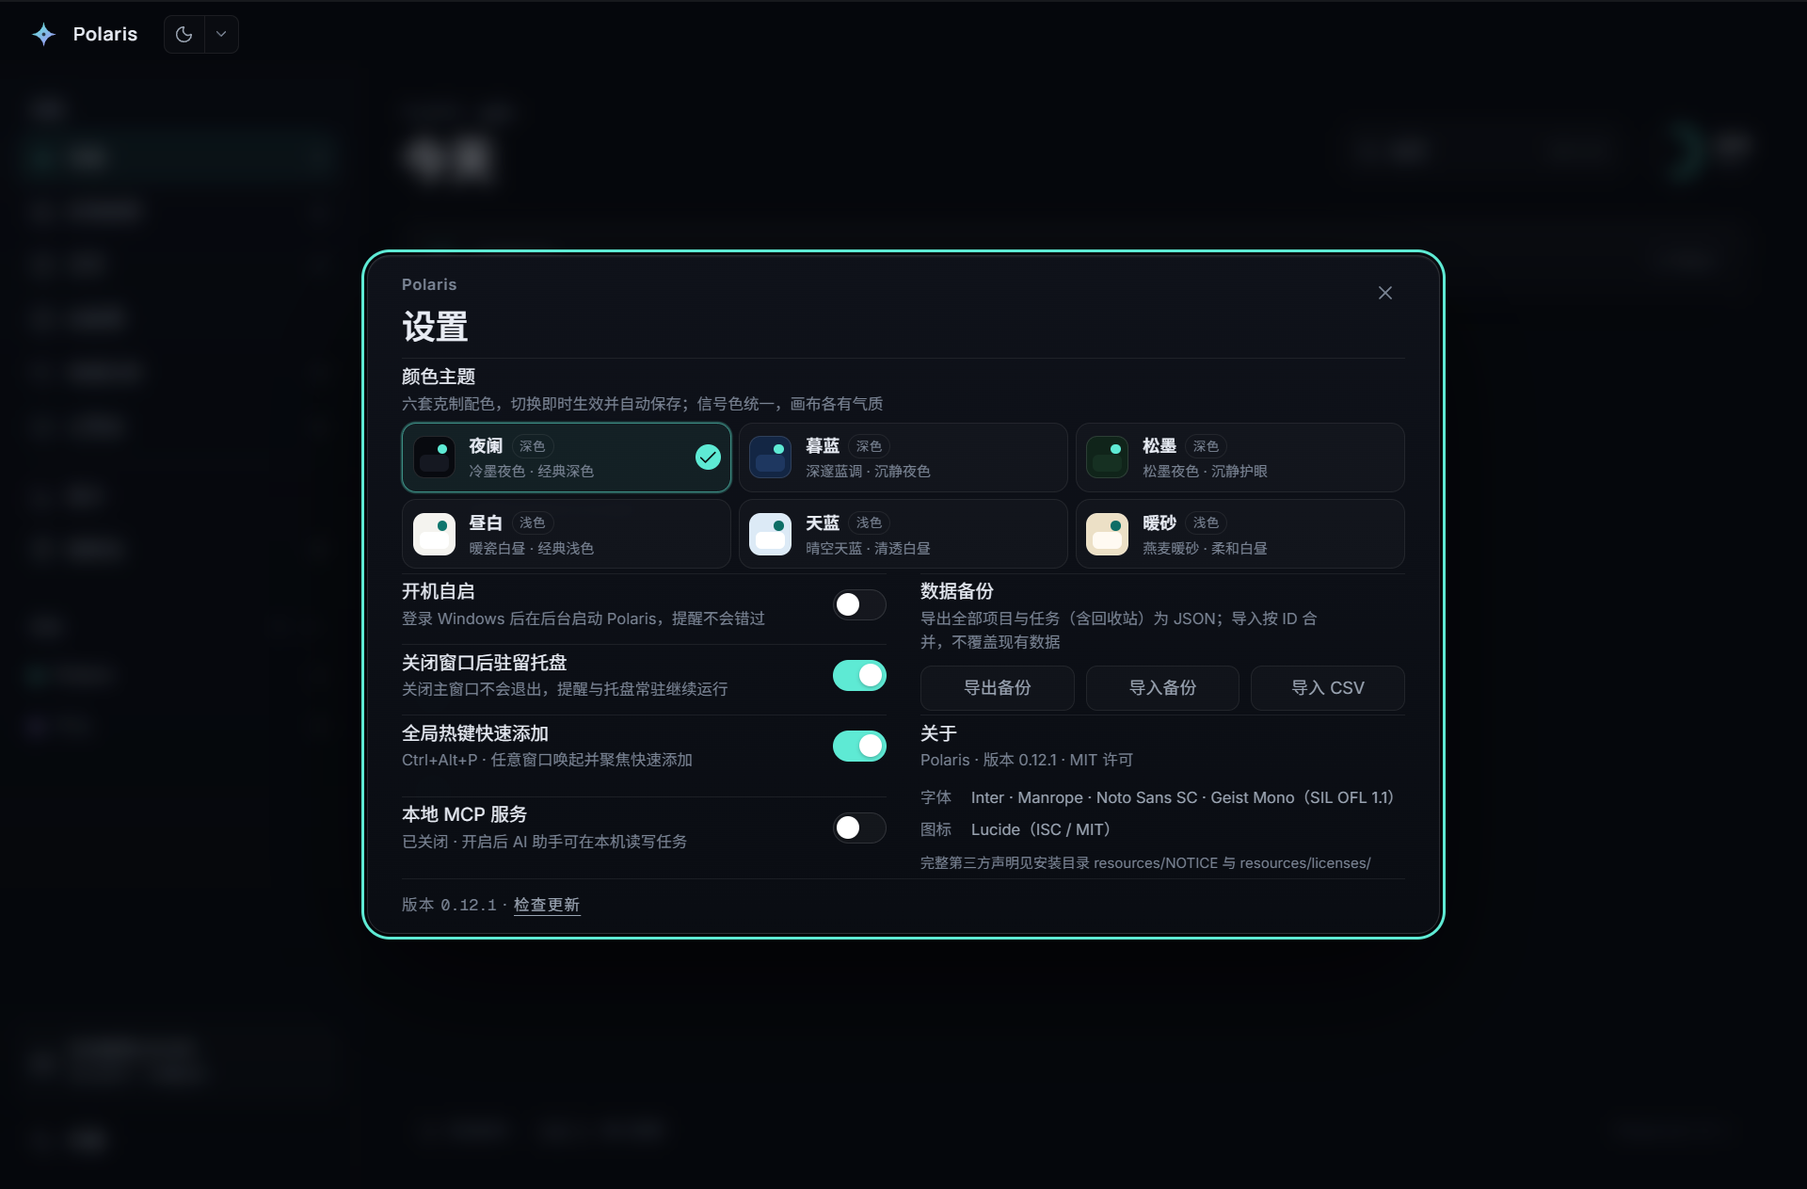
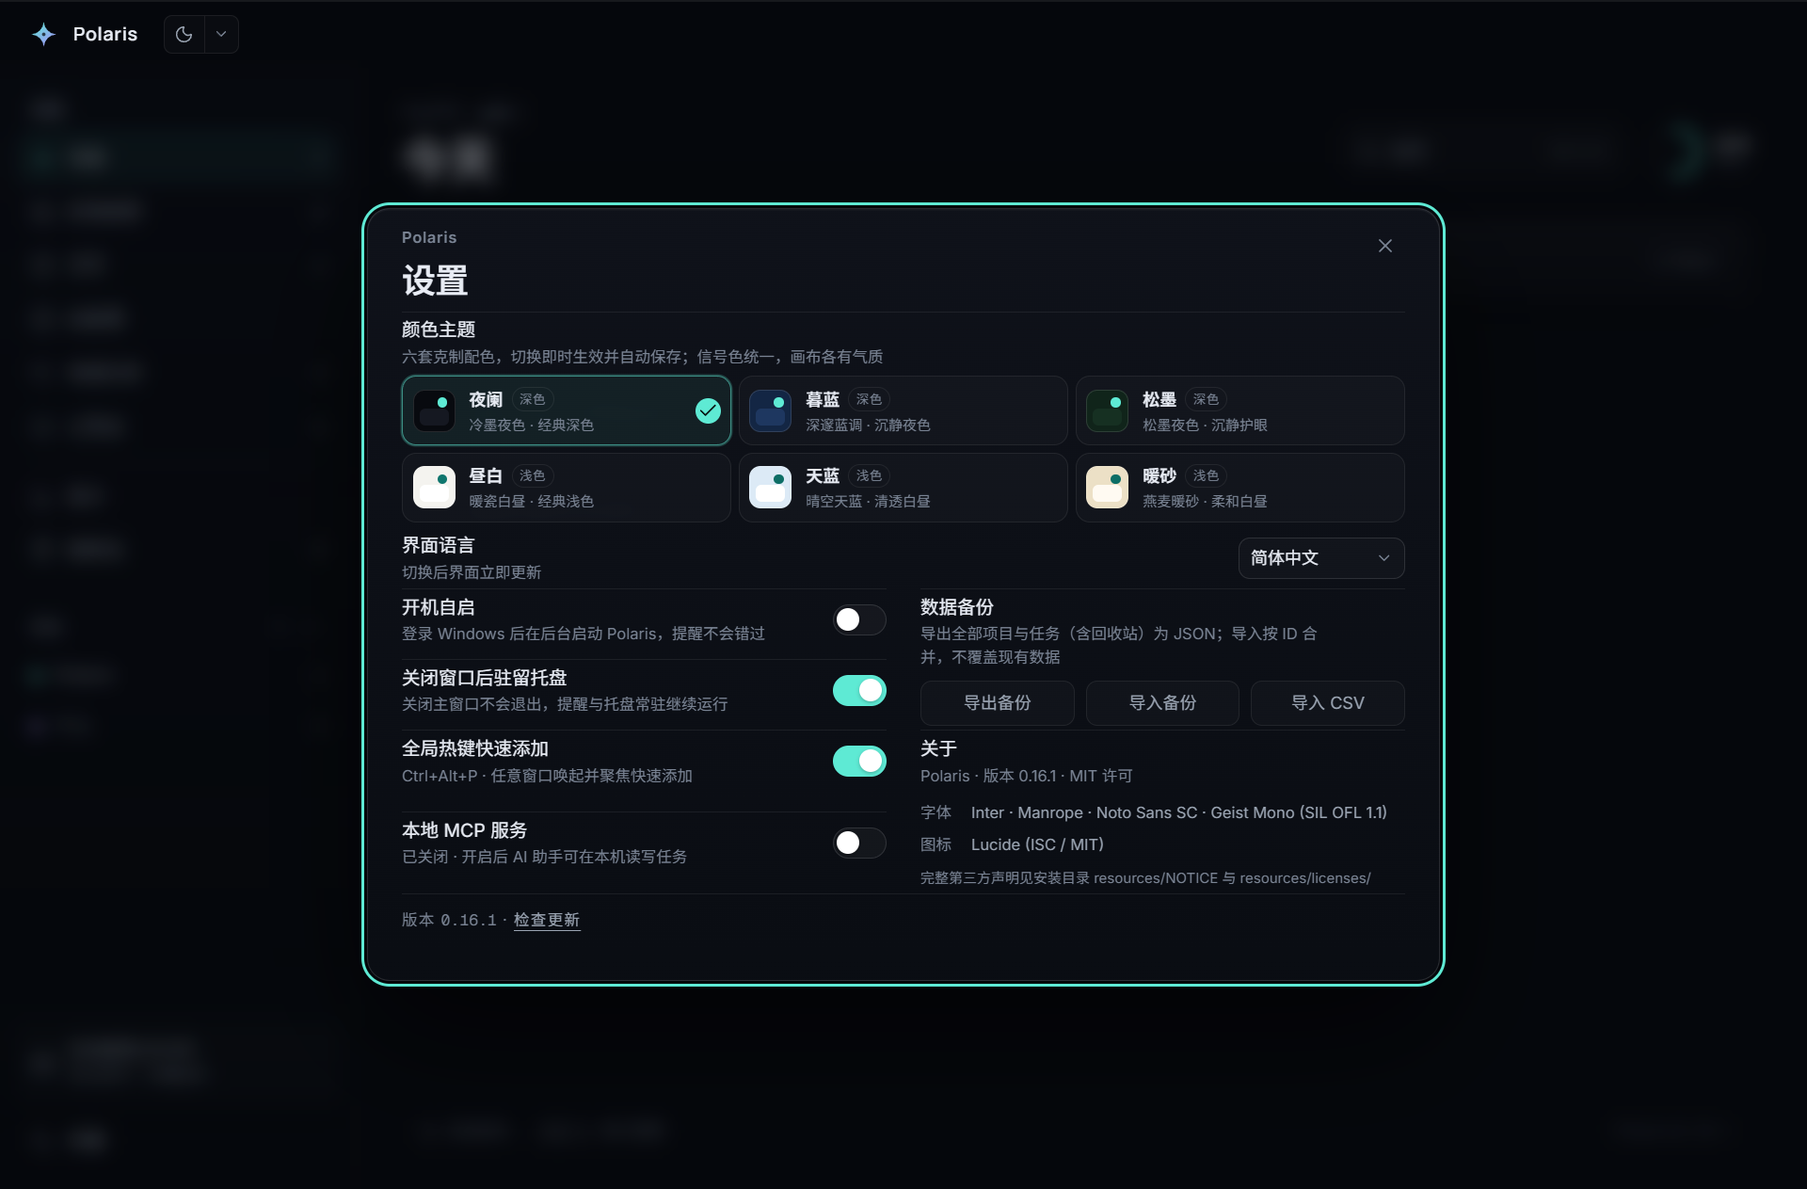
README 同步 0.16.1 现状与本轮令牌/抖动改动
- 版本徽章 0.14.1 → 0.16.1；打包产物改 <版本> 占位不再钉死旧号
- 功能补遗：自动备份与灾难恢复（0.15.0）、日历键盘导航（0.16.0）、设置面板高度不随状态跳变、旧无前缀 token 兼容说明
- 技术栈表补 electron-log 行；其余版本逐一对过 package.json
- 测试节断言数 140 余 → 156；明细补零抖动守卫、sk- token 形状、已完成折叠/大列表窗口化/focus 门控/子任务字段回滚/统计与项目五组
- 开发流程：截图需 POLARIS_HARNESS=1 重建（生产构建剥离截图代码，本次实踩）；发版步骤补先 push tag 与 DRAFT 转正
- 已知限制补自动备份仅启动触发；设置面板截图重截归档（含语言行与当前布局）

diff --git a/README.md b/README.md
@@ -8,7 +8,7 @@
 
 深色墨黑界面 · 青绿信号色 · 原生窗口控件 · 数据默认只保存在本机
 
-[![版本](https://img.shields.io/badge/version-0.14.1-0F766E?style=flat-square)](https://github.com/2dapeng518/Polaris-Todo/releases/latest)
+[![版本](https://img.shields.io/badge/version-0.16.1-0F766E?style=flat-square)](https://github.com/2dapeng518/Polaris-Todo/releases/latest)
 [![平台](https://img.shields.io/badge/platform-Windows%2011-334155?style=flat-square)](#安装)
 [![许可证](https://img.shields.io/badge/license-MIT-0F766E?style=flat-square)](LICENSE)
 [![下载](https://img.shields.io/github/downloads/2dapeng518/Polaris-Todo/total?style=flat-square&color=0F766E&label=downloads)](https://github.com/2dapeng518/Polaris-Todo/releases)
@@ -39,7 +39,7 @@ Polaris 面向 Windows 11 桌面，用 Electron 构建，数据落在本机 SQLi
 - **八个视图**：今天 / 即将到来 / 日历 / 四象限 / 全部任务 / 已完成 / 统计 / 回收站。侧栏按工作流分组——干活视图在上，统计与回收站用分隔线归入回顾区；支持项目与标签筛选、今日完成进度环。列表里的已完成区默认折叠成「已完成 N 条」一行，点击展开或收起，勾选完成只加计数不打扰当前列表；切换视图后回到折叠。
 - **统计回顾**：今日完成、本周完成（周一起算）、累计完成与按时完成率，7 天 / 30 天完成趋势柱状图、各项目累计完成占比。全部数字在本地从任务列表派生，不额外存库；没有记录完成时刻的老任务计入累计与项目分布，但不计入趋势和按时率，界面会注明数量。
 - **四象限**：按「重要 = 中/高优先级、紧急 = 今天到期或已逾期」把未完成任务派生进立即做 / 计划做 / 快速处理 / 有余力再做，2×2 卡片窄屏自动堆叠；无截止视为不紧急，跨午夜自动重新判定。
-- **日历**：月历按截止时间把任务落到对应日子，周一起始、恒定 42 格翻月不跳高；每天最多直显三条，溢出收敛为 +N，逾期标警示色、已完成弱化划线，中高优先级带信号色圆点。点任务开详情，「今天」一键回本月。
+- **日历**：月历按截止时间把任务落到对应日子，周一起始、恒定 42 格翻月不跳高；每天最多直显三条，溢出收敛为 +N，逾期标警示色、已完成弱化划线，中高优先级带信号色圆点。点任务开详情，「今天」一键回本月。月格完整键盘导航：方向键按日/周移动、Home/End 取本周首尾、PageUp/Down 翻月、Shift 组合翻年、Enter 打开当日首条任务。
 - **项目与标签**：侧栏新建项目，内置六种配色；标签在详情里回车即创建并贴上，建议 chip 一键复用，侧栏按标签筛选（与项目筛选互斥），删除标签级联清理关联。
 
 ### 任务编辑
@@ -56,8 +56,9 @@ Polaris 面向 Windows 11 桌面，用 Electron 构建，数据落在本机 SQLi
 
 - **本地 SQLite**：数据位于 Electron `userData/polaris.db`，WAL 模式，自动保存。侧栏「任务数据仅存本机 · 自动保存 · 点击备份」卡片直达设置备份区——隐私承诺同时是一个出口：随时导出。
 - **JSON 备份**：设置里一键导出 / 导入全量备份（`schemaVersion: 3`，含子任务与标签关联）；v1 / v2 旧备份仍能导入，只是缺少对应数据。
+- **自动备份与灾难恢复**：启动时自动往 `userData/backups/` 写一份 JSON 备份（最新一份不足 24 小时则跳过，原子写，保留最近 7 份）；数据库文件损坏时改名隔离保留（含 WAL 旁车，绝不覆盖删除），重建新库并双语告知，不会静默丢数据死掉。
 - **CSV 搬家**：支持滴答清单 / Todoist 的 CSV 导出，按表头自动识别格式。迁移标题、备注、优先级、截止时间、项目（按名复用或新建）、标签与 Todoist 缩进子任务；已完成任务按完成态导入但不伪造完成时刻。重复规则、提醒、附件与评论不迁移。
-- **本地 MCP 服务**：设置里可开启（默认关），在 `http://127.0.0.1:3737/mcp` 提供 MCP Streamable HTTP 端点，AI 助手可直接列出 / 新建 / 更新 / 完成 / 删除任务、查项目与标签。八个工具直调与界面完全相同的落库逻辑，零逻辑复制。客户端必须携带 `Authorization: Bearer <token>` 请求头——token 首次启用时自动生成（`sk-` 前缀），在 设置 → 本地 MCP 服务 里以头尾可见、中段隐藏的单行掩码展示，只能整串复制（明文不上屏），重启不变；「重新生成」会立即作废旧 token。
+- **本地 MCP 服务**：设置里可开启（默认关），在 `http://127.0.0.1:3737/mcp` 提供 MCP Streamable HTTP 端点，AI 助手可直接列出 / 新建 / 更新 / 完成 / 删除任务、查项目与标签。八个工具直调与界面完全相同的落库逻辑，零逻辑复制。客户端必须携带 `Authorization: Bearer <token>` 请求头——token 首次启用时自动生成（`sk-` 前缀），在 设置 → 本地 MCP 服务 里以头尾可见、中段隐藏的单行掩码展示，只能整串复制（明文不上屏），重启不变；「重新生成」会立即作废旧 token。0.16.1 及以前的无前缀旧 token 升级后继续被接受，已配置的客户端不用重配；只有新生成 / 重新生成的 token 带前缀。
 
 > [!IMPORTANT]
 > MCP 只绑本机回环地址，并要求 bearer token 鉴权：缺失或错误的 token 一律 401，本机其他进程拿不到 token 就读写不了任务。token 仅存本机数据库，数据不出本机，服务随应用运行、退出即停。
@@ -74,7 +75,7 @@ Polaris 面向 Windows 11 桌面，用 Electron 构建，数据落在本机 SQLi
 - **小屏适配**：窗口默认与最小尺寸贴合屏幕工作区，分辨率变化时自动重收；1024×576 级别小屏走紧凑布局，侧栏导航独立滚动，存储卡与设置钉底不丢。
 - **界面语言**：设置「颜色主题」区可在简体中文 / English 之间切换，界面文字、日期格式与托盘菜单立即更新并记住选择；系统通知与原生文件对话框同步使用当前语言。
 - **键盘优先与无障碍**：命令面板（`Ctrl K`）、设置和窄屏详情有焦点陷阱，宽屏详情保持列表可操作；支持 skip link、reduced motion；全应用十处输入框统一柔和聚焦语言（淡边 + 浅光晕），焦点环绝不与填充同色。
-- **设置一屏收纳**：设置面板在默认窗口一屏放下，矮窗口自动两列回流；自定义标题栏保留 Windows 原生最小化 / 最大化 / 关闭按钮。
+- **设置一屏收纳**：设置面板在默认窗口一屏放下，矮窗口自动两列回流；面板高度不随状态跳变——更新状态行常驻占位、令牌行单行掩码，检查结果落槽不抖动；自定义标题栏保留 Windows 原生最小化 / 最大化 / 关闭按钮。
 - **关于与署名**：设置「关于」区显示当前版本与 MIT 许可；完整第三方组件与字体声明随安装包放在 `resources/NOTICE` 与 `resources/licenses/`。
 
 ## 界面预览
@@ -230,6 +231,7 @@ Polaris 面向 Windows 11 桌面，用 Electron 构建，数据落在本机 SQLi
 | 界面 | React / Tailwind CSS / Motion / Zustand | 19.3 / 4.3 / 14.12 / 5.1 |
 | 数据 | better-sqlite3 / rrule / zod | 13.0 / 2.8 / 4.6 |
 | 更新 | electron-updater / DOMPurify | 6.8 / 3.4 |
+| 日志 | electron-log | 5.4 |
 | 打包 | electron-builder（NSIS） | 26.18 |
 | 图标与日期 | lucide-react / date-fns | 1.72 / 4.4 |
 
@@ -321,8 +323,8 @@ build/         应用图标与安装包资源
 1. 改代码，用 `npm run dev` 验证交互。
 2. 运行 `npm run typecheck`。
 3. 运行 `npm run build && npm run smoke`；动过主题加跑 `npm run verify:themes`，动过 `lib/dateTime.ts` 加跑 `npm run verify:datetime`，动过 `shared/quickAddParse.ts` / `shared/retention.ts` 先跑秒级的 `npm run verify:pure` 快速反馈。
-4. 需要看视觉结果时，构建后用 `POLARIS_SHOT=<mode> npx electron .` 截图到仓库根目录（模式清单见下方折叠块）；验证时请加 `--user-data-dir` 隔离，避免改写真实配置目录的主题。
-5. 发布：递增 `package.json` 版本 → 打 git tag → 设好 `GH_TOKEN` 跑 `npm run release:win`。发完核对 Release 资产三件套齐全：`Polaris-Setup-<版本>.exe`、`.blockmap`、`latest.yml`（electron-builder 上传偶有静默漏传，缺啥用 `gh release upload --clobber` 补）。
+4. 需要看视觉结果时，先 `POLARIS_HARNESS=1 npm run build` 带 harness 重建（生产构建会剥离截图代码，直接截会静默无产出），再 `POLARIS_SHOT=<mode> npx electron .` 截图到仓库根目录（模式清单见下方折叠块）；截完跑一次 `npm run build` 恢复生产态；验证时请加 `--user-data-dir` 隔离，避免改写真实配置目录的主题。
+5. 发布：递增 `package.json` 版本 → 提交并打附注 tag → **先 push main 与 tag**（否则 electron-builder 可能抢先把 tag 建在旧 HEAD 上）→ 设好 `GH_TOKEN` 跑 `npm run release:win`。发完核对 Release 资产三件套齐全：`Polaris-Setup-<版本>.exe`、`.blockmap`、`latest.yml`（electron-builder 上传偶有静默漏传，缺啥用 `gh release upload --clobber` 补）；Release 若停在 DRAFT 用 `gh release edit --draft=false` 转正。
 
 <details>
 <summary><b>POLARIS_SHOT 截图模式清单</b></summary>
@@ -333,8 +335,8 @@ build/         应用图标与安装包资源
 
 打包产物：
 
-- `dist/Polaris-Setup-0.14.1.exe`：NSIS 一键安装包，装进当前用户目录，无需管理员权限，装完自动启动。
-- `dist/Polaris-Setup-0.14.1.exe.blockmap` 与 `dist/latest.yml`：在线更新的差量下载与版本元数据，发布时随安装包一起上传。
+- `dist/Polaris-Setup-<版本>.exe`：NSIS 一键安装包，装进当前用户目录，无需管理员权限，装完自动启动。
+- `dist/Polaris-Setup-<版本>.exe.blockmap` 与 `dist/latest.yml`：在线更新的差量下载与版本元数据，发布时随安装包一起上传。
 - `dist/win-unpacked/Polaris.exe`：免安装目录版。
 - 另提供 `npm run build:mac`（macOS 打包配置，图标 `build/icon.icns`）；主要目标平台仍是 Windows 11。
 
@@ -350,12 +352,12 @@ npm run verify:datetime
 npm run verify:pure
 ```
 
-- **冒烟测试**（`scripts/smoke.mjs`）启动真实 Electron，通过 `webContents.executeJavaScript` 驱动界面，140 余条具名断言覆盖从快速添加到在线更新的全链路；使用临时 userData 配置目录，不碰本机数据，失败时以非零退出码结束并单独打印 `POLARIS_SMOKE_FAILED ["断言名", …]`。
+- **冒烟测试**（`scripts/smoke.mjs`）启动真实 Electron，通过 `webContents.executeJavaScript` 驱动界面，156 条具名断言覆盖从快速添加到在线更新的全链路；使用临时 userData 配置目录，不碰本机数据，失败时以非零退出码结束并单独打印 `POLARIS_SMOKE_FAILED ["断言名", …]`。
 - **主题校验**检查六套主题的 WCAG 对比度、注册表不变量与跨家族配对。
 - **日期时间校验**直接 import 渲染层纯函数并注入时钟，用字面量期望表加全天 5760 个真实时刻扫描，再覆盖 7 个时区 2026 年的每一次夏令时跳变（共 17280 个真实时刻），钉死「今天」按钮不落过去这类靠跑 UI 撞概率的边界。
 - **纯函数快速校验**（`npm run verify:pure`，CI 已挂）不启动 Electron，直接在 Node 里 import `shared/quickAddParse.ts` 与 `shared/retention.ts`，秒级跑完与冒烟 harness 同源的中文/英文解析真值表、误报反例、撤销状态机与保留期边界表；两处断言表需同步维护（`src/main/harness/assertions.ts` 的原断言保留，E2E 仍跑）。
 
-期望值全部写成字面量，不经过被测函数自算；跨进程等待一律走条件轮询而非固定延时。高度断言用亚像素矩形，smoke 以 CDP 仿真 125/150/200% 显示缩放与 1024×536 低分辨率视口；段宽、分隔线、小字号中文等细节仍靠手动。视觉检查通过 `POLARIS_SHOT` 截图完成，截图和冒烟测试需在本地运行。
+期望值全部写成字面量，不经过被测函数自算；跨进程等待一律走条件轮询而非固定延时。高度断言用亚像素矩形，smoke 以 CDP 仿真 125/150/200% 显示缩放与 1024×536 低分辨率视口；段宽、分隔线、小字号中文等细节仍靠手动。视觉检查通过 `POLARIS_SHOT` 截图完成（需先带 harness 重建，见开发流程第 4 步），截图和冒烟测试需在本地运行。
 
 <details>
 <summary><b>断言覆盖明细</b></summary>
@@ -372,17 +374,23 @@ npm run verify:pure
 
 **日历**：命令面板直达、42 格、任务按截止落格、无截止不进日历、翻月标签与格数、今天按钮回本月、chip 点开详情。
 
-**本地 MCP**：真实 HTTP 往返（经 IPC 取 bearer token）——initialize / tools/list / 建任务 / 列任务 / 完成任务 / GET 回 405 / 无 token 与错 token 401 / 重新生成后旧 token 401、新 token 200 / 关闭后拒连。
+**本地 MCP**：真实 HTTP 往返（经 IPC 取 bearer token）——initialize / tools/list / 建任务 / 列任务 / 完成任务 / GET 回 405 / 无 token 与错 token 401 / 重新生成后旧 token 401、新 token 200 / 关闭后拒连；token 形状钉死 `sk-` 前缀 + 64 位 hex、重复读取同值。
 
 **在线更新**：纯函数真值表、开发态手动检查答 unsupported 且不弹窗、合成快照驱动发现→进度→就绪→稍后不再弹→跳过后再推保持安静、跳过持久化与页脚重开、HTML 更新说明富文本渲染（注入 `<script>` 被消毒不执行）、开发态安装守卫报错不杀进程。
 
 **托盘与热键**：构建后菜单标签恰为四项、托盘「设置」唤起并开面板、手动检查七态气泡文案真值表、开发态检查不弹窗不唤窗；热键默认开启、设置往返、冲突降级中文提示、隐藏窗口唤起回「今天」并聚焦输入。
 
-**布局与聚焦**：设置面板一屏守卫（默认 840 与紧凑两档，点过检查更新带状态行再量）、低分辨率 1024×536 紧凑档生效且侧栏/主区不溢出、存储卡直达备份区；焦点环扫描覆盖主视图、详情栏、日期弹层、主题菜单展开、回收站确认弹窗五种状态，任何环与自身填充/边框同色即失败。
+**布局与聚焦**：设置面板一屏守卫（默认 840 与紧凑两档，点过检查更新带状态行再量）、低分辨率 1024×536 紧凑档生效且侧栏/主区不溢出、存储卡直达备份区；设置零抖动守卫在实机 1024×576 档量令牌行单行掩码形状（头 7 + … + 末 4）、高度恒一行、按钮恰为复制与重新生成、明文永不上屏，以及检查更新结果落槽前后面板内容高度与页脚顶边零位移；焦点环扫描覆盖主视图、详情栏、日期弹层、主题菜单展开、回收站确认弹窗五种状态，任何环与自身填充/边框同色即失败。
 
 **主题**：配对快切连点两次回到原主题（三对逐一校验）、六套主题矩阵的 `data-theme` / 持久化 / 令牌生效、标题栏主题菜单（六行齐全且顺序固定、打开即聚焦当前行、点选落库、菜单卸载后 `aria-expanded` 归位、焦点回到箭头、Esc 只收菜单），以及命令面板输入「主题」命中六条直达并选中生效。
 
 **数据层**：同一截止时刻按优先级高→低排序、更早的时刻不被优先级打乱；`completedAt` 新建为空、完成时写入、后续编辑标题不改动它（`updated_at` 会变）、取消完成清空、再次完成写入新时刻；重复任务完成实例保留时刻而生成的下一次为空。
+
+**已完成折叠与列表规模化**：已完成区默认折叠成「已完成 N 条」一行（N=0 整区隐藏）、勾选只加计数不自动展开、展开可见 / 收起卸载 / 切视图重置；1200 条种子任务的大列表窗口化渲染（`content-visibility`）、常规与紧凑两档行高字面量、滚动锚点稳定、底行可交互、屏外行勾选与退场动画收敛。
+
+**增量刷新与字段级回滚**：focus 修订号门控——迁移 7 的触发器写修订号，focus 时号不变不拉全量（主进程计数 `tasks:list` 调用作判别器）、外部写入后 focus 必拉、自己写完盖章后 focus 安静；子任务并发竞态下改名失败只回滚改名字段，不抹并发成功的勾选。
+
+**统计与项目**：统计视图直达、今日 / 本周 / 累计 / 按时率与种子数据字面量自洽、7 / 30 天趋势往返切换；项目 UI 改名后任务仍映射、UI 删除（确认弹窗）后任务归「无项目」（外键 SET NULL）。
 
 **日期时间选择器与提醒窗**：弹层内不存在原生 `datetime-local`、月历恒 42 格且只有一个 Tab 位、五种弹层形态都不超过 420px 且零滚动、选日保留时分且秒/毫秒归零、`aria-valuenow` 与落库时刻恒等、上下键回绕、「1830」打字流、±15 跨小时进位与键盘等价、半截数字不会写错值、「今天」不落过去、Esc 只收弹层、清除生效。提醒窗用 `capturePage` 采样真实绘制像素验证单一不透明表面、铺满窗口、无内衬无圆角无描边、长项目名下标题不被压扁，并在提醒窗开着时切换主题验证跨窗同步。首帧颜色断言只等「就绪」不等「颜色正确」，否则先画错再改正也会通过。
 
@@ -441,6 +449,7 @@ npm run verify:pure
 - 完成时刻（`completed_at`）自数据库迁移 4 起记录。在此之前完成的老任务该字段为空——真实时刻当时没存过，不用 `updated_at` 猜补。统计视图会把这些老任务计入累计完成与项目分布，但不计入今日 / 本周、完成趋势和按时完成率，并在趋势下方注明「未记录时刻」的数量。
 - 备份文件自 `schemaVersion: 2` 起包含子任务、自 `schemaVersion: 3` 起包含标签与关联；导入旧版备份仍会成功，只是缺少对应数据。
 - CSV 搬家按表头别名识别滴答清单 / Todoist 导出，竞品改表头时可能需要补别名；重复规则、提醒、附件、评论不迁移，导入的已完成任务没有完成时刻（不计入趋势与按时率）。
+- 自动备份只在启动时触发（24 小时节流），运行期间不周期备份；需要即时快照请手动导出。
 - 示例任务只用于首次启动展示；删除数据可清空 Electron userData 目录下的 `polaris.db`。
 
 **集成与更新**
